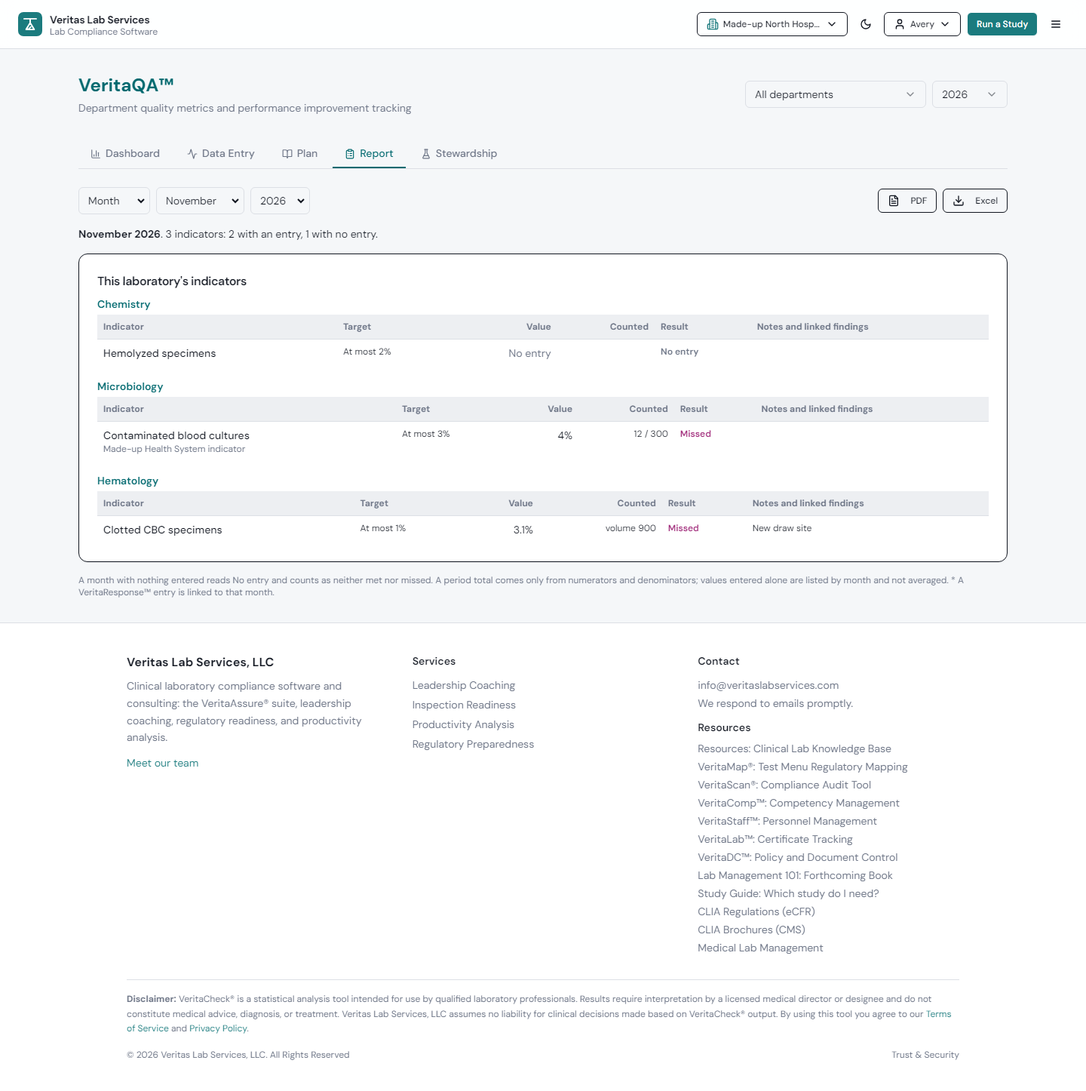
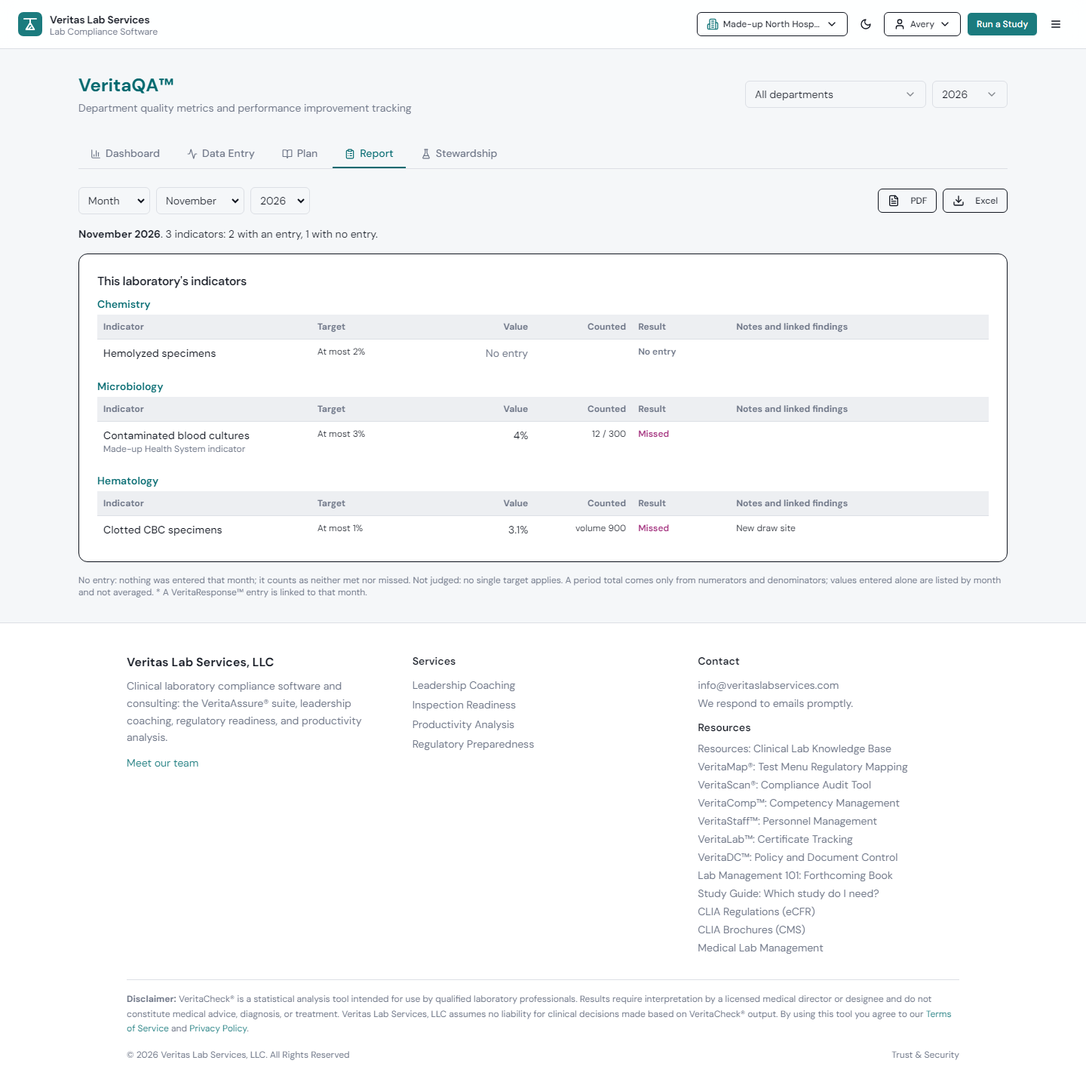
TASK: VeritaQA reports: one layout, marks that survive black and white, No entry in the cells (B15)
PLAN:
  1. Every table of a PDF has one fixed set of column widths, with numbers right-aligned under their headings; the report across
     laboratories too, and the two screens. A short table stays on one page; a long one repeats its name and headings on each page
     and breaks only between rows.
  2. A month column carries W (Watch) or M (Missed) after the number, beside the color, and the key says so. The screen does the
     same and reads the word out to a screen reader. The workbook already prints the words.
  3. A month with nothing entered reads No entry, in the PDF and on the screen, as the key does. The key names Not judged too.
  4. The account routes (/api/pi) go by the person's seat in the laboratory the row belongs to: someone who is Staff or view-only
     there doesn't read its rows through another laboratory, as the shared seat rule of PR 1977 has it.
  5. scripts/render-quality-reports.mts renders the six files from made-up data (25 indicators by 12 months, 40 laboratories) and
     reads the pages back. The multi-lab mutation audit knows /api/org-quality as the organization's, not a laboratory's.

Self-check:
  - render-quality-reports 51; each of seven deliberate breaks (column widths, split rows, headings, letters, No entry, alignment,
    footer) fails it, and removing the new seat check fails veritaqa-by-lab.
  - veritaqa-by-lab 120, verify-quality-indicators 30, verify-veritaqa-by-lab-ui 44; tsc has only the two errors main has.
[…]

diff --git a/server/qualityReportFiles.ts b/server/qualityReportFiles.ts
@@ -35,16 +35,25 @@ const CSS = `
   .bar h1 { font-size: 15pt; margin: 0; } .bar div { font-size: 9pt; opacity: .95; margin-top: 2px; }
   .meta { margin: 8px 6px 4px 0; font-size: 8.5pt; line-height: 1.45; }
   h2 { color: ${DARK}; font-size: 11pt; margin: 12px 0 4px; padding: 4px 8px; background: ${TINT}; break-after: avoid; }
-  h3 { color: ${TEAL}; font-size: 9.5pt; margin: 8px 0 2px; break-after: avoid; }
-  .def { font-size: 8pt; color: ${TEXT}; margin: 0 0 3px; break-after: avoid; }
-  table { border-collapse: collapse; width: 100%; } thead { display: table-header-group; }
-  th { background: ${TEAL}; color: #fff; font-size: 8pt; padding: 3px 5px; text-align: left; border: .5px solid #D0D0D0; }
-  td { padding: 3px 5px; border: .5px solid #D0D0D0; vertical-align: top; }
-  tr { break-inside: avoid; } tbody tr:nth-child(even) td { background: ${ALT}; }
-  .r { text-align: right; font-variant-numeric: tabular-nums; } .c { text-align: center; }
-  .total td { font-weight: 700; background: ${TINT} !important; }
-  .muted { color: ${GRAY}; } .note { font-size: 7.5pt; color: ${GRAY}; }
-  .block { break-inside: avoid-page; }
+  /* Every table of a report has the same columns at the same widths, so they line up down the page. */
+  table { border-collapse: collapse; width: 100%; table-layout: fixed; margin-bottom: 8px; } thead { display: table-header-group; }
+  th { background: ${TEAL}; color: #fff; font-size: 8pt; padding: 3px 5px; text-align: left; border: .5px solid #D0D0D0; overflow-wrap: break-word; }
+  th.r, td.r { text-align: right; font-variant-numeric: tabular-nums; } th.c, td.c { text-align: center; }
+  /* The table's name repeats with its headings on every page it runs to. */
+  th.cap { background: #fff; color: ${TEAL}; font-size: 9.5pt; padding: 4px 0 2px; border: 0; }
+  td { padding: 3px 5px; border: .5px solid #D0D0D0; vertical-align: top; overflow-wrap: break-word; }
+  tr { break-inside: avoid; } tr.alt td { background: ${ALT}; }
+  tr.def td { font-size: 8pt; border: 0; padding: 0 0 4px; break-after: avoid; } tr.def { break-after: avoid; }
+  tr.total td { font-weight: 700; background: ${TINT}; } tr.total { break-before: avoid; }
+  .muted, th.cap .muted { color: ${GRAY}; font-weight: 400; } .note { font-size: 7.5pt; color: ${GRAY}; }
+  /* A month cell keeps room for its letter whether or not it has one, so the numbers line up under the month's name. */
+  .m td.mo { font-size: 8pt; text-align: right; font-variant-numeric: tabular-nums; padding-left: 1px; padding-right: 2px; white-space: nowrap; }
+  .m th.mo { text-align: right; padding-left: 1px; padding-right: 17px; }
+  .m td.mo i { display: inline-block; width: 15px; white-space: pre; text-align: left; font-style: normal; font-weight: 700; font-size: 7pt; }
+  .m td.mo.ne { font-size: 6.5pt; color: ${GRAY}; text-align: center; }
+  .m.wide td.mo.ne { font-size: 8pt; text-align: right; padding-right: 17px; }
+  /* A short table stays on one page; a long one breaks between rows, with its name and headings again on the next page. */
+  .block, table.keep { break-inside: avoid-page; }
 `;
 const FOOTER_TEMPLATE = `<div style="width:100%;font-family:Arial,sans-serif;font-size:7.5pt;color:${GRAY};padding:0 12mm;">${esc(QUALITY_PDF_FOOTER_TEXT)} | Page <span class="pageNumber"></span> of <span class="totalPages"></span></div>`;
 
@@ -71,21 +80,24 @@ export const totalText = (i: SystemReportIndicator): string =>
 
 export const SYSTEM_REPORT_NOTE = "Totals add up numerators and denominators; percents are never averaged. A laboratory with no entry is shown as No entry and counts as neither met nor missed. Targets are the organization's own.";
 
+const cols = (widths: number[]) => widths.map((w) => `<col style="width:${w}%">`).join("");
+const SYSTEM_COLUMNS = cols([25, 9, 10, 11, 14, 8, 7, 16]);
+
 export function systemReportHTML(r: SystemReport): string {
   const filters = [r.group ? `Group: ${r.group.name}` : "All laboratories", r.department ? `Department: ${r.department}` : "All departments"].join(". ");
   const blocks = r.indicators.map((i) => `
-    <div class="block"><h3>${esc(i.name)} <span class="muted">(${esc(i.department)})</span></h3>
-    <p class="def">${i.definition ? `${esc(i.definition)} ` : ""}${esc(numLine(i))}. ${esc(kindLine(i))}${i.changes.length ? ` <b>${esc(changeText(i))}</b>` : ""}</p>
-    <table><thead><tr><th style="width:25%">Laboratory</th><th class="r" style="width:9%">${i.kind === "count" ? "Count" : "Numerator"}</th><th class="r" style="width:10%">Denominator</th><th class="r" style="width:11%">Value</th><th style="width:14%">Target</th><th style="width:8%">Result</th><th class="c" style="width:7%">Entries</th><th>Note</th></tr></thead><tbody>
-    ${i.rows.map((x) => `<tr><td>${esc(x.lab_name)}${x.off_since ? ` <span class="note">off since ${esc(x.off_since)}</span>` : ""}</td><td class="r">${n(x.result.numerator)}</td><td class="r">${n(x.result.denominator)}</td><td class="r">${x.result.state === "no_entry" ? `<span class="muted">No entry</span>` : esc(valueText(x.result.value, x.result.unit))}</td><td>${esc(x.target_text)}</td><td style="font-weight:700;color:${resultColor(x.result_text)}">${esc(x.result_text)}</td><td class="c">${x.result.entered} of ${x.result.expected}</td><td class="note">${esc(x.result.note ?? "")}</td></tr>`).join("")}
+    <table${i.rows.length <= 12 ? ` class="keep"` : ""}><colgroup>${SYSTEM_COLUMNS}</colgroup><thead><tr><th class="cap" colspan="8">${esc(i.name)} <span class="muted">(${esc(i.department)})</span></th></tr>
+    <tr><th>Laboratory</th><th class="r">${i.kind === "count" ? "Count" : "Numerator"}</th><th class="r">Denominator</th><th class="r">Value</th><th>Target</th><th>Result</th><th class="c">Entries</th><th>Note</th></tr></thead><tbody>
+    <tr class="def"><td colspan="8">${i.definition ? `${esc(i.definition)} ` : ""}${esc(numLine(i))}. ${esc(kindLine(i))}${i.changes.length ? ` <b>${esc(changeText(i))}</b>` : ""}</td></tr>
+    ${i.rows.map((x, k) => `<tr${k % 2 ? ` class="alt"` : ""}><td>${esc(x.lab_name)}${x.off_since ? ` <span class="note">off since ${esc(x.off_since)}</span>` : ""}</td><td class="r">${n(x.result.numerator)}</td><td class="r">${n(x.result.denominator)}</td><td class="r">${x.result.state === "no_entry" ? `<span class="muted">No entry</span>` : esc(valueText(x.result.value, x.result.unit))}</td><td>${esc(x.target_text)}</td><td style="font-weight:700;color:${resultColor(x.result_text)}">${esc(x.result_text)}</td><td class="c">${x.result.entered} of ${x.result.expected}</td><td class="note">${esc(x.result.note ?? "")}</td></tr>`).join("")}
     <tr class="total"><td>Total, ${i.total.labs_counted} of ${i.rows.length} ${i.rows.length === 1 ? "laboratory" : "laboratories"} with an entry</td>${i.total.shown ? `<td class="r">${n(i.total.numerator)}</td><td class="r">${n(i.total.denominator)}</td><td class="r">${esc(valueText(i.total.value, i.total.unit))}</td><td colspan="4"></td>` : `<td colspan="7">${esc(i.total.reason ?? "")}</td>`}</tr>
-    </tbody></table></div>`).join("");
+    </tbody></table>`).join("");
   return doc(`
     <div class="bar"><h1>Quality Indicators Across Laboratories</h1><div>Prepared for: ${esc(r.organization.name)}, ${r.labs.length} ${r.labs.length === 1 ? "laboratory" : "laboratories"}</div></div>
     <p class="meta"><b>${esc(r.period.label)}</b>. ${esc(filters)}. Generated ${esc(r.generated)}.<br>${esc(SYSTEM_REPORT_NOTE)}</p>
     ${blocks || `<p class="meta">No organization indicator is turned on in these laboratories${r.department ? " for this department" : ""}.</p>`}
-    <div class="block"><h2>Laboratories in this report</h2>
-    <table><thead><tr><th>Laboratory</th><th style="width:30%">CLIA</th></tr></thead><tbody>${r.labs.map((l) => `<tr><td>${esc(l.lab_name)}</td><td>${l.clia_number ? esc(l.clia_number) : "Not on file"}</td></tr>`).join("")}</tbody></table></div>`);
+    <div${r.labs.length <= 12 ? ` class="block"` : ""}>
+    <table><colgroup><col style="width:62%"><col></colgroup><thead><tr><th class="cap" colspan="2">Laboratories in this report</th></tr><tr><th>Laboratory</th><th>CLIA</th></tr></thead><tbody>${r.labs.map((l, k) => `<tr${k % 2 ? ` class="alt"` : ""}><td>${esc(l.lab_name)}</td><td>${l.clia_number ? esc(l.clia_number) : "Not on file. Enter it in account settings."}</td></tr>`).join("")}</tbody></table></div>`);
 }
 
 export const systemReportPDF = (r: SystemReport) => renderPdf(systemReportHTML(r));
@@ -94,31 +106,44 @@ export const systemReportFilename = (r: SystemReport, ext: "pdf" | "xlsx") => `V
 
 // ── One laboratory ──────────────────────────────────────────────────────────
 
-export const LAB_REPORT_NOTE = "Met: within the target. Watch: outside the target, within the laboratory's yellow threshold. Missed: beyond it. A month with nothing entered reads No entry and counts as neither met nor missed. A period total is shown only for an indicator entered as a numerator and a denominator; values entered alone are listed by month and not averaged. Targets are the laboratory's own.";
+export const LAB_REPORT_NOTE = "Met: within the target. Watch: outside the target, within the laboratory's yellow threshold. Missed: beyond it. No entry: nothing was entered that month; it counts as neither met nor missed. Not judged: no single target applies. A period total is shown only for an indicator entered as a numerator and a denominator; values entered alone are listed by month and not averaged. Targets are the laboratory's own.";
+/** The month columns of a quarter or a year say it in a letter as well as a color, so a black and white print reads the same. */
+export const LAB_REPORT_KEY = "Month columns: W after a number is Watch, M is Missed. A number with no letter met its target, or has no target set.";
+export const STATUS_LETTER: Record<string, string> = { yellow: "W", red: "M" };
 
 const rowName = (x: LabReportRow) => `${esc(x.name)}${x.organization ? ` <span class="note">${esc(x.organization)}</span>` : ""}${x.off_since ? ` <span class="note">turned off ${esc(x.off_since)}</span>` : x.inactive ? ` <span class="note">inactive</span>` : ""}`;
 
 export function labReportHTML(r: LabReport): string {
-  const month = r.period.kind === "month";
+  const month = r.period.kind === "month", months = r.period.months.length;
+  const columns = month ? cols([24, 13, 10, 9, 11, 8, 25]) : months === 12 ? cols([15, 9, ...Array(12).fill(5.1), 7.3, 7.5]) : cols([30, 17, 11, 11, 11, 10, 10]);
+  const width = month ? 7 : months + 4;
   const head = month
-    ? `<th style="width:24%">Indicator</th><th style="width:13%">Target</th><th class="r" style="width:9%">Value</th><th class="r" style="width:9%">Numerator</th><th class="r" style="width:10%">Denominator or volume</th><th style="width:8%">Result</th><th>Notes, root cause and linked findings</th>`
-    : `<th style="width:${r.period.kind === "year" ? 19 : 28}%">Indicator</th><th style="width:${r.period.kind === "year" ? 11 : 16}%">Target</th>${r.period.months.map((m) => `<th class="r">${MONTH_SHORT[m - 1]}</th>`).join("")}<th class="r">Period total</th><th>Result</th>`;
+    ? `<th>Indicator</th><th>Target</th><th class="r">Value</th><th class="r">Numerator</th><th class="r">Denominator or volume</th><th>Result</th><th>Notes, root cause and linked findings</th>`
+    : `<th>Indicator</th><th>Target</th>${r.period.months.map((m) => `<th class="mo">${MONTH_SHORT[m - 1]}</th>`).join("")}<th class="r">Period total</th><th>Result</th>`;
   const colorOf = (s: string | null) => (s === "green" ? GREEN : s === "yellow" ? AMBER : s === "red" ? RED : TEXT);
-  const row = (x: LabReportRow) => {
+  // Twelve columns leave room for five characters at the table's size; a longer number is set smaller rather than run over its border.
+  const monthCell = (m: LabReportRow["months"][number]) => {
+    if (m.value == null) return `<td class="mo ne">${m.due ? "No entry" : ""}</td>`;
+    const t = trimNumber(m.value), size = months < 12 || t.length <= 5 ? "" : `;font-size:${Math.floor(160 / t.length) / 4}pt`;
+    const mark = `${(m.status && STATUS_LETTER[m.status]) || ""}${m.findings.length ? "*" : ""}`;
+    return `<td class="mo" style="color:${colorOf(m.status)}${size}">${esc(t)}<i>${mark ? ` ${mark}` : ""}</i></td>`;
+  };
+  const row = (x: LabReportRow, k: number) => {
+    const tr = `<tr${k % 2 ? ` class="alt"` : ""}>`;
     if (month) {
       const m = x.months[0];
       const notes = [m.notes, m.root_cause ? `Root cause: ${m.root_cause}` : "", m.corrective_action ? `Corrective action: ${m.corrective_action}` : "", m.findings.length ? `Linked: ${m.findings.map((f) => f.label).join("; ")}` : ""].filter(Boolean);
-      return `<tr><td>${rowName(x)}</td><td>${esc(x.target_text)}</td><td class="r">${m.value == null ? `<span class="muted">No entry</span>` : esc(m.value_text)}</td><td class="r">${n(m.numerator)}</td><td class="r">${n(m.denominator ?? m.volume)}</td><td style="font-weight:700;color:${resultColor(x.result_text)}">${esc(x.result_text)}</td><td class="note" style="color:${TEXT}">${notes.map(esc).join("<br>")}</td></tr>`;
+      return `${tr}<td>${rowName(x)}</td><td>${esc(x.target_text)}</td><td class="r">${m.value == null ? `<span class="muted">No entry</span>` : esc(m.value_text)}</td><td class="r">${n(m.numerator)}</td><td class="r">${n(m.denominator ?? m.volume)}</td><td style="font-weight:700;color:${resultColor(x.result_text)}">${esc(x.result_text)}</td><td class="note" style="color:${TEXT}">${notes.map(esc).join("<br>")}</td></tr>`;
     }
-    return `<tr><td>${rowName(x)}</td><td>${esc(x.target_text)}</td>${x.months.map((m) => `<td class="r" style="color:${colorOf(m.status)}">${m.value == null ? (m.due ? `<span class="muted">-</span>` : "") : esc(trimNumber(m.value))}${m.findings.length ? "*" : ""}</td>`).join("")}<td class="r"><b>${esc(x.period_text)}</b></td><td style="font-weight:700;color:${resultColor(x.result_text)}">${esc(x.result_text)}</td></tr>`;
+    return `${tr}<td>${rowName(x)}</td><td>${esc(x.target_text)}</td>${x.months.map(monthCell).join("")}<td class="r"><b>${esc(x.period_text)}</b></td><td style="font-weight:700;color:${resultColor(x.result_text)}">${esc(x.result_text)}</td></tr>`;
   };
   const anyLinked = r.sections.some((s) => s.departments.some((d) => d.rows.some((x) => x.months.some((m) => m.findings.length))));
-  const linkedList = !month && anyLinked ? `<h2>Linked findings</h2><table><thead><tr><th style="width:40%">Indicator</th><th style="width:15%">Month</th><th>VeritaResponse&#8482; entry</th></tr></thead><tbody>${
-    r.sections.flatMap((s) => s.departments.flatMap((d) => d.rows.flatMap((x) => x.months.flatMap((m) => m.findings.map((f) => `<tr><td>${esc(x.name)}</td><td>${monthKey(r.period.year, m.month)}</td><td>${esc(f.label)}</td></tr>`))))).join("")}</tbody></table>` : "";
+  const linkedList = !month && anyLinked ? `<table><colgroup>${cols([40, 15, 45])}</colgroup><thead><tr><th class="cap" colspan="3">Linked findings</th></tr><tr><th>Indicator</th><th>Month</th><th>VeritaResponse&#8482; entry</th></tr></thead><tbody>${
+    r.sections.flatMap((s) => s.departments.flatMap((d) => d.rows.flatMap((x) => x.months.flatMap((m) => m.findings.map((f) => [x.name, monthKey(r.period.year, m.month), f.label]))))).map((c, k) => `<tr${k % 2 ? ` class="alt"` : ""}>${c.map((t) => `<td>${esc(t)}</td>`).join("")}</tr>`).join("")}</tbody></table>` : "";
   return doc(`
     <div class="bar"><h1>Quality Indicator Report</h1><div>Prepared for: ${esc(r.lab.name || "Lab name not on file")} &nbsp;&nbsp; ${r.lab.clia ? `CLIA: ${esc(r.lab.clia)}` : QUALITY_PDF_CLIA_MISSING}</div></div>
-    <p class="meta"><b>${esc(r.period.label)}</b>. ${r.counts.indicators} ${r.counts.indicators === 1 ? "indicator" : "indicators"}: ${r.counts.with_entries} with an entry, ${r.counts.no_entry} with no entry. Generated ${esc(r.generated)}.<br>${esc(LAB_REPORT_NOTE)}</p>
-    ${r.sections.map((s) => `<h2>${esc(s.title)}</h2>${s.departments.map((d) => `<h3>${esc(d.name)} (${d.rows.length})</h3><table><thead><tr>${head}</tr></thead><tbody>${d.rows.map(row).join("")}</tbody></table>`).join("")}`).join("") || `<p class="meta">No indicators yet.</p>`}
+    <p class="meta"><b>${esc(r.period.label)}</b>. ${r.counts.indicators} ${r.counts.indicators === 1 ? "indicator" : "indicators"}: ${r.counts.with_entries} with an entry, ${r.counts.no_entry} with no entry. Generated ${esc(r.generated)}.<br>${esc(LAB_REPORT_NOTE)}${month ? "" : `<br><b>${esc(LAB_REPORT_KEY)}</b>`}</p>
+    ${r.sections.map((s) => `<h2>${esc(s.title)}</h2>${s.departments.map((d) => `<table class="${month ? "" : months === 12 ? "m" : "m wide"}${d.rows.length <= 4 ? " keep" : ""}"><colgroup>${columns}</colgroup><thead><tr><th class="cap" colspan="${width}">${esc(d.name)} <span class="muted">(${d.rows.length})</span></th></tr><tr>${head}</tr></thead><tbody>${d.rows.map(row).join("")}</tbody></table>`).join("")}`).join("") || `<p class="meta">No indicators yet.</p>`}
     ${!month && anyLinked ? `<p class="note">* A VeritaResponse&#8482; entry is linked to that month; see Linked findings.</p>` : ""}${linkedList}`);
 }
 

diff --git a/client/src/components/veritaqa/LabReportTab.tsx b/client/src/components/veritaqa/LabReportTab.tsx
@@ -84,7 +84,7 @@ export default function LabReportTab({ labId }: { labId: number }) {
       downloadPdfToken(token, filename);
     } finally { setBusy(null); }
   }
-  const month = data?.period.kind === "month";
+  const month = data?.period.kind === "month", year = data?.period.kind === "year";
   return (
     <div className="space-y-4" data-testid="qa-lab-report">
       <div className="flex flex-wrap items-center gap-2">
@@ -108,11 +108,12 @@ export default function LabReportTab({ labId }: { labId: number }) {
                     <div key={d.name}>
                       <h3 className="mb-1 font-sans text-sm font-semibold text-[#01696F] dark:text-teal-300">{d.name}</h3>
                       <div className="overflow-x-auto">
-                        <table className="w-full text-sm" style={{ minWidth: data.period.kind === "year" ? 980 : 640 }}>
+                        <table className="w-full table-fixed text-sm" style={{ minWidth: year ? 1150 : 640 }}>
+                          <colgroup>{(month ? [24, 14, 11, 11, 11, 29] : year ? [14.8, 9.2, ...Array(12).fill(5.1), 7, 7.8] : [28, 18, 11, 11, 11, 10.5, 10.5]).map((w, i) => <col key={i} style={{ width: `${w}%` }} />)}</colgroup>
                           <thead className="border-b bg-muted text-left text-xs text-muted-foreground">
                             <tr>
                               <th className="px-2 py-2">Indicator</th><th className="px-2 py-2">Target</th>
-                              {month ? <><th className="px-2 py-2 text-right">Value</th><th className="px-2 py-2 text-right">Counted</th></> : data.period.months.map((m) => <th key={m} className="px-2 py-2 text-right">{MONTH_SHORT[m - 1]}</th>)}
+                              {month ? <><th className="px-2 py-2 text-right">Value</th><th className="px-2 py-2 text-right">Counted</th></> : data.period.months.map((m) => <th key={m} className="py-2 pl-1 pr-5 text-right">{MONTH_SHORT[m - 1]}</th>)}
                               {!month && <th className="px-2 py-2 text-right">Period total</th>}
                               <th className="px-2 py-2">Result</th>
                               {month && <th className="px-2 py-2">Notes and linked findings</th>}
@@ -130,7 +131,7 @@ export default function LabReportTab({ labId }: { labId: number }) {
                                       <td className="px-2 py-2 text-right font-mono">{m.value == null ? <span className="font-sans text-muted-foreground">No entry</span> : m.value_text}</td>
                                       <td className="px-2 py-2 text-right font-mono text-xs">{m.numerator != null ? (m.denominator != null ? `${m.numerator.toLocaleString()} / ${m.denominator.toLocaleString()}` : m.numerator.toLocaleString()) : m.volume != null ? `volume ${m.volume.toLocaleString()}` : ""}</td>
                                     </>
-                                  ) : x.months.map((y) => <td key={y.month} className={`px-2 py-2 text-right font-mono ${statusColor(y.status)}`} title={y.findings.map((f) => f.label).join("; ") || undefined}>{y.value == null ? (y.due ? <span className="text-muted-foreground" title="No entry">-</span> : "") : trimNumber(y.value)}{y.findings.length ? "*" : ""}</td>)}
+                                  ) : x.months.map((y) => <td key={y.month} className={`px-1 py-2 text-right font-mono ${year ? "text-xs" : ""} ${statusColor(y.status)}`} title={y.findings.map((f) => f.label).join("; ") || undefined}>{y.value == null ? (y.due ? <span className={`font-sans text-muted-foreground whitespace-nowrap ${year ? "text-[11px]" : "mr-4"}`}>No entry</span> : "") : <>{trimNumber(y.value)}<span aria-hidden="true" className="inline-block w-4 pl-0.5 text-left text-[11px] font-bold">{y.status === "yellow" ? "W" : y.status === "red" ? "M" : ""}{y.findings.length ? "*" : ""}</span>{(y.status === "yellow" || y.status === "red") && <span className="sr-only"> {y.status === "yellow" ? "Watch" : "Missed"}</span>}</>}</td>)}
                                   {!month && <td className="px-2 py-2 text-right font-mono font-semibold" title={x.period && x.period.denominator != null ? `${x.period.numerator} / ${x.period.denominator}` : undefined}>{x.period && x.period.value != null ? valueText(x.period.value, x.period.unit) : ""}</td>}
                                   <td className={`px-2 py-2 text-xs font-semibold whitespace-nowrap ${resultColor(x.result_text)}`}>{x.result_text}</td>
                                   {month && <td className="px-2 py-2 text-xs">{[m.notes, m.root_cause ? `Root cause: ${m.root_cause}` : "", m.corrective_action ? `Corrective action: ${m.corrective_action}` : "", m.findings.length ? `Linked: ${m.findings.map((f) => f.label).join("; ")}` : ""].filter(Boolean).map((t, i) => <div key={i}>{t}</div>)}</td>}
@@ -146,7 +147,7 @@ export default function LabReportTab({ labId }: { labId: number }) {
               </Card>
             ))}
             <p className="text-xs text-muted-foreground">
-              A month with nothing entered reads No entry and counts as neither met nor missed. A period total comes only from numerators and denominators; values entered alone are listed by month and not averaged. * A VeritaResponse™ entry is linked to that month.
+              {month ? "" : "W after a number is Watch, M is Missed; a number with no letter met its target, or has no target set. "}No entry: nothing was entered that month; it counts as neither met nor missed. Not judged: no single target applies. A period total comes only from numerators and denominators; values entered alone are listed by month and not averaged. * A VeritaResponse™ entry is linked to that month.
             </p>
           </>
         ) : null}

diff --git a/tests/integration/veritaqa-by-lab.test.ts b/tests/integration/veritaqa-by-lab.test.ts
@@ -162,6 +162,11 @@ async function main() {
       refusals.push([`sister editor on the older route ${m} ${p}`, (await call(EDITOR, m, "/api/pi" + p, b, A)).s]);
     }
     check("4. every write and report by someone outside the laboratory is refused, and nothing moved", refusals.every(([, s]) => s === 403 || s === 404) && count() === frozen, refusals.filter(([, s]) => s !== 403 && s !== 404).map(String).join(" | "));
+    // One login, a writer in lab A and Staff in lab B: working in A, B's rows stay closed on both sets of routes (PR 1977's rule).
+    const BOTH = await w.login("both", "Bo Both"); w.member(A, BOTH); w.seat(OWNER.id, BOTH, A); w.member(LB, BOTH); w.seat(OWNER.id, BOTH, LB, { type: "staff_portal", perms: {} });
+    const bothOld = await call(BOTH, "GET", "/api/pi/metrics?department_id=all", undefined, A);
+    const bothTries = [await call(BOTH, "PUT", `/api/pi/metrics/${bMetric.id}`, { name: "n" }, A), await call(BOTH, "PUT", `${PI(A)}/metrics/${bMetric.id}`, { name: "n" }), await call(BOTH, "POST", `/api/pi/metrics/${bMetric.id}/report`, {}, A), await call(BOTH, "GET", `${PI(LB)}/metrics?department_id=all`)];
+    check("4. a writer here who is Staff in a sister laboratory reads this one and nothing of that one", ids(bothOld.j).includes(metric.id) && !ids(bothOld.j).includes(bMetric.id) && ids((await call(BOTH, "GET", `${PI(A)}/metrics?department_id=all`)).j).includes(metric.id) && bothTries.every((r) => r.s === 403 || r.s === 404) && one("SELECT name FROM pi_metrics WHERE id = ?", bMetric.id).name === "Lab B only", `${ids(bothOld.j)} / ${bothTries.map((r) => r.s)}`);
     const viewOnly = await call(SCAN_ONLY, "POST", `${PI(A)}/entries`, { metric_id: metric.id, year: 2026, month: 1, value: 1 });
     check("4. a seat without VeritaQA edit can't enter a result", viewOnly.s === 403, `${viewOnly.s}`);
     const sup = [await call(SUPPORT, "POST", `${PI(A)}/entries`, { metric_id: metric.id, year: 2026, month: 1, value: 1 }), await call(SUPPORT, "DELETE", `${PI(A)}/metrics/${metric.id}`), await call(SUPPORT, "POST", `${PI(A)}/plan/reviews`, { plan_id: 1, reviewed_by: "x", review_date: "2026-01-01" }), await call(SUPPORT, "POST", `${PI(A)}/metrics/${metric.id}/assign`, {})];
@@ -365,7 +370,11 @@ async function main() {
     check("9. a bad period is refused", (await rep("period=ytd&year=2026&month=3")).s === 400 && (await rep("period=month&year=2026&month=13")).s === 400);
     const threeReport = (await call(as(U.THREE), "GET", `${PI(L.T1)}/report?period=month&year=2026&month=1`)).j;
     check("9. account-wide indicators are in their own section, labelled, in a laboratory's report", threeReport.sections.length === 2 && threeReport.sections[1].title === "Account-wide, not assigned to a laboratory" && threeReport.sections[0].departments.flatMap((d: any) => d.rows).map((r: any) => r.metric_id).includes(9511) && threeReport.sections[1].departments.flatMap((d: any) => d.rows).map((r: any) => r.metric_id).includes(9512));
+    sqlite.prepare("UPDATE labs SET clia_number = NULL WHERE id = ?").run(A);
     const labPdf = await file(EDITOR, `${PI(A)}/report/pdf`, { period: "quarter", year: 2026, quarter: 1 }), labWords = words(labPdf.buf);
+    const noCliaSystem = words((await file(LEADER, `${ORGQ}/report/pdf`, body)).buf);
+    check("9. a missed month carries its letter, the key explains it, and an empty month reads No entry in the words of the key", /3\.6 M/.test(labWords) && /W after a number is Watch, M is Missed/.test(labWords) && /No entry: nothing was entered that month/.test(labWords) && /No entry/.test(labWords.split("Hemolyzed specimens")[1] ?? ""), labWords.slice(0, 900));
+    check("9. a blank CLIA is said, in both reports", /CLIA: Not on file\. Enter it in account settings\./.test(labWords) && /Not on file\. Enter it in account settings\./.test(noCliaSystem));
     check("9. the laboratory PDF: its name and CLIA line, the period, the footer, no signature line", labPdf.s === 200 && /Made-up Lab A/.test(labWords) && /CLIA:/.test(labWords) && /Quarter 1, 2026/.test(labWords) && /Hemolyzed specimens/.test(labWords) && /VeritaQA™ \| Confidential, For Internal Lab Use Only/.test(labWords) && !/Signature/i.test(labWords) && !/[–—]/.test(labWords), labWords.slice(0, 300));
     const labX = await file(EDITOR, `${PI(A)}/report/xlsx`, { period: "year", year: 2026 }), labWb = await cells(labX.buf);
     check("9. the laboratory workbook: About, Indicators, Months", JSON.stringify(labWb.names) === JSON.stringify(["About", "Indicators", "Months"]) && labWb.rows("Months").some((r) => r[0] === "Hemolyzed specimens" && r[1] === "2026-03" && r[3] === 3.6 && r[8] === "Missed"));

diff --git a/server/veritaqaPi.ts b/server/veritaqaPi.ts
@@ -20,7 +20,7 @@ import { logAudit, type AuditAction } from "./audit";
 import { hasOpsAccess } from "./veritabench";
 import { blockNonOperatorSeat } from "./seatAccess";
 import { ownerRowInReach } from "./labAccessGuard";
-import { editSeatInLab } from "./seatContext";
+import { editSeatInLab, managesLab } from "./seatContext";
 import { staffOwnScope } from "./competencySelfEntry";
 import { effectiveSeatPermission } from "@shared/seatEditRule";
 import { storePdfToken } from "./pdfTokens";
@@ -63,6 +63,9 @@ function accountReachesLab(sqlite: any, v: Extract<QaView, { kind: "account" }>,
   if (v.userId === v.accountId) {
     return !!sqlite.prepare("SELECT 1 FROM labs WHERE id = ? AND owner_user_id = ? UNION SELECT 1 FROM lab_members WHERE lab_id = ? AND user_id = ? AND status = 'active' LIMIT 1").get(labId, v.userId, labId, v.userId);
   }
+  // Their seat in THIS laboratory decides: Staff or view-only there doesn't read its rows through another laboratory (B3).
+  const seat = editSeatInLab(sqlite, v.userId, labId, "seat_type");
+  if (seat && String(seat.seat_type || "active") !== "active" && !managesLab(sqlite, v.userId, labId)) return false;
   if (ownerRowInReach(sqlite, v.userId, v.accountId, labId)) return true;
   // A seat with no lab on it, under an owner whose only laboratory this is: there is no sister laboratory to cross into.
   const labs = sqlite.prepare("SELECT id FROM labs WHERE owner_user_id = ? LIMIT 2").all(v.accountId) as { id: number }[];

diff --git a/client/src/pages/SystemQualityPage.tsx b/client/src/pages/SystemQualityPage.tsx
@@ -155,7 +155,8 @@ function ReportView({ org, initialGroup, onIndicators }: { org: Organization; in
                 </CardHeader>
                 <CardContent>
                   <div className="overflow-x-auto">
-                    <table className="w-full text-sm" style={{ minWidth: 720 }}>
+                    <table className="w-full table-fixed text-sm" style={{ minWidth: 820 }}>
+                      <colgroup>{[29, 11, 12, 13, 14, 13, 8].map((w, k) => <col key={k} style={{ width: `${w}%` }} />)}</colgroup>
                       <thead className="border-b bg-muted text-left text-xs text-muted-foreground">
                         <tr><th className="px-2 py-2">Laboratory</th><th className="px-2 py-2 text-right">{i.kind === "count" ? "Count" : "Numerator"}</th><th className="px-2 py-2 text-right">Denominator</th><th className="px-2 py-2 text-right">Value</th><th className="px-2 py-2">Target</th><th className="px-2 py-2">Result</th><th className="px-2 py-2 text-center">Entries</th></tr>
                       </thead>

diff --git a/scripts/audit_multilab_mutations.py b/scripts/audit_multilab_mutations.py
@@ -81,6 +81,10 @@ EXEMPT_PREFIXES = (
     # promote quizzes to per-lab — at that point flip this back.
     "/api/veritacomp/quizzes",
     "/api/veritacomp/programs",
+    # 2026-11-24: an organization's quality indicators and its report across
+    # laboratories (B15, server/orgQuality.ts) belong to the organization, not
+    # to the lab in the address; there is no lab-scoped form of them.
+    "/api/org-quality",
 )
 
 def is_exempt_url(url: str) -> bool:
